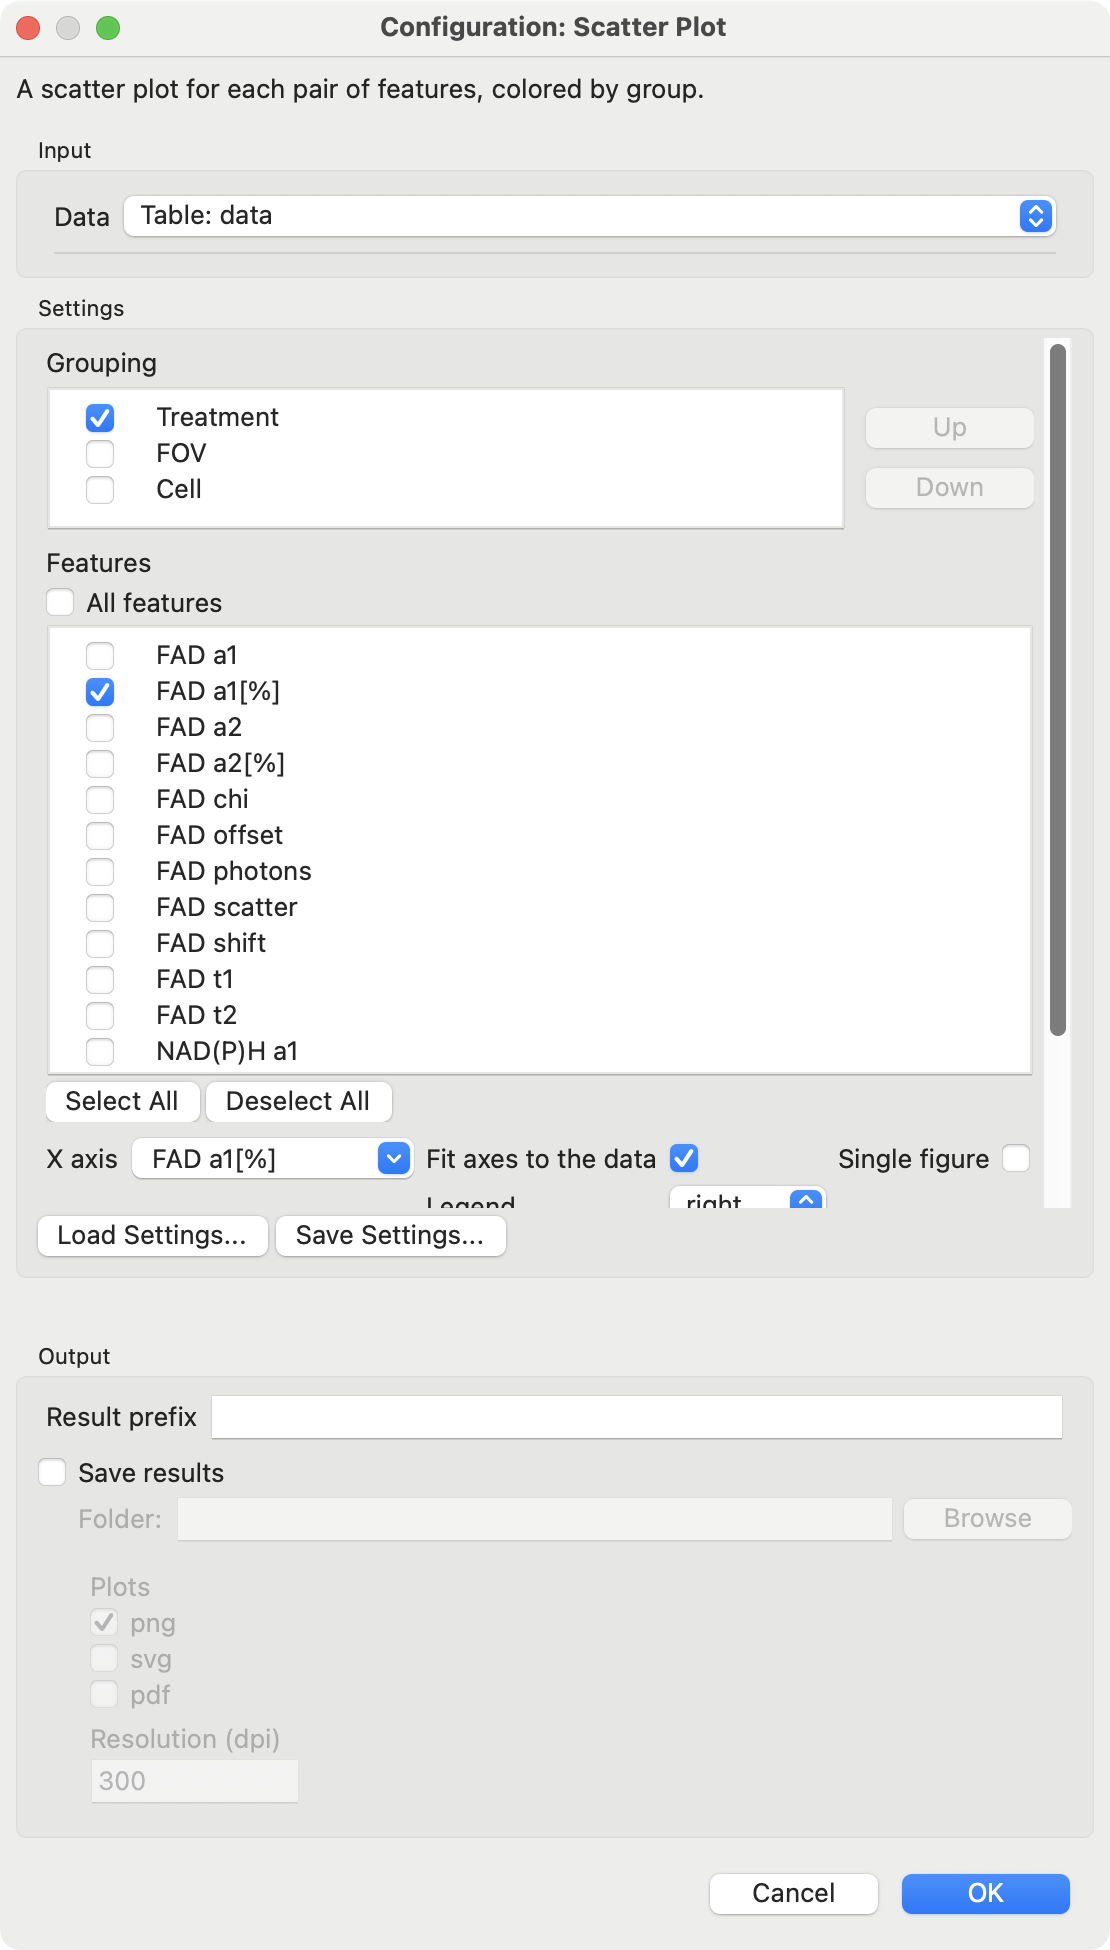
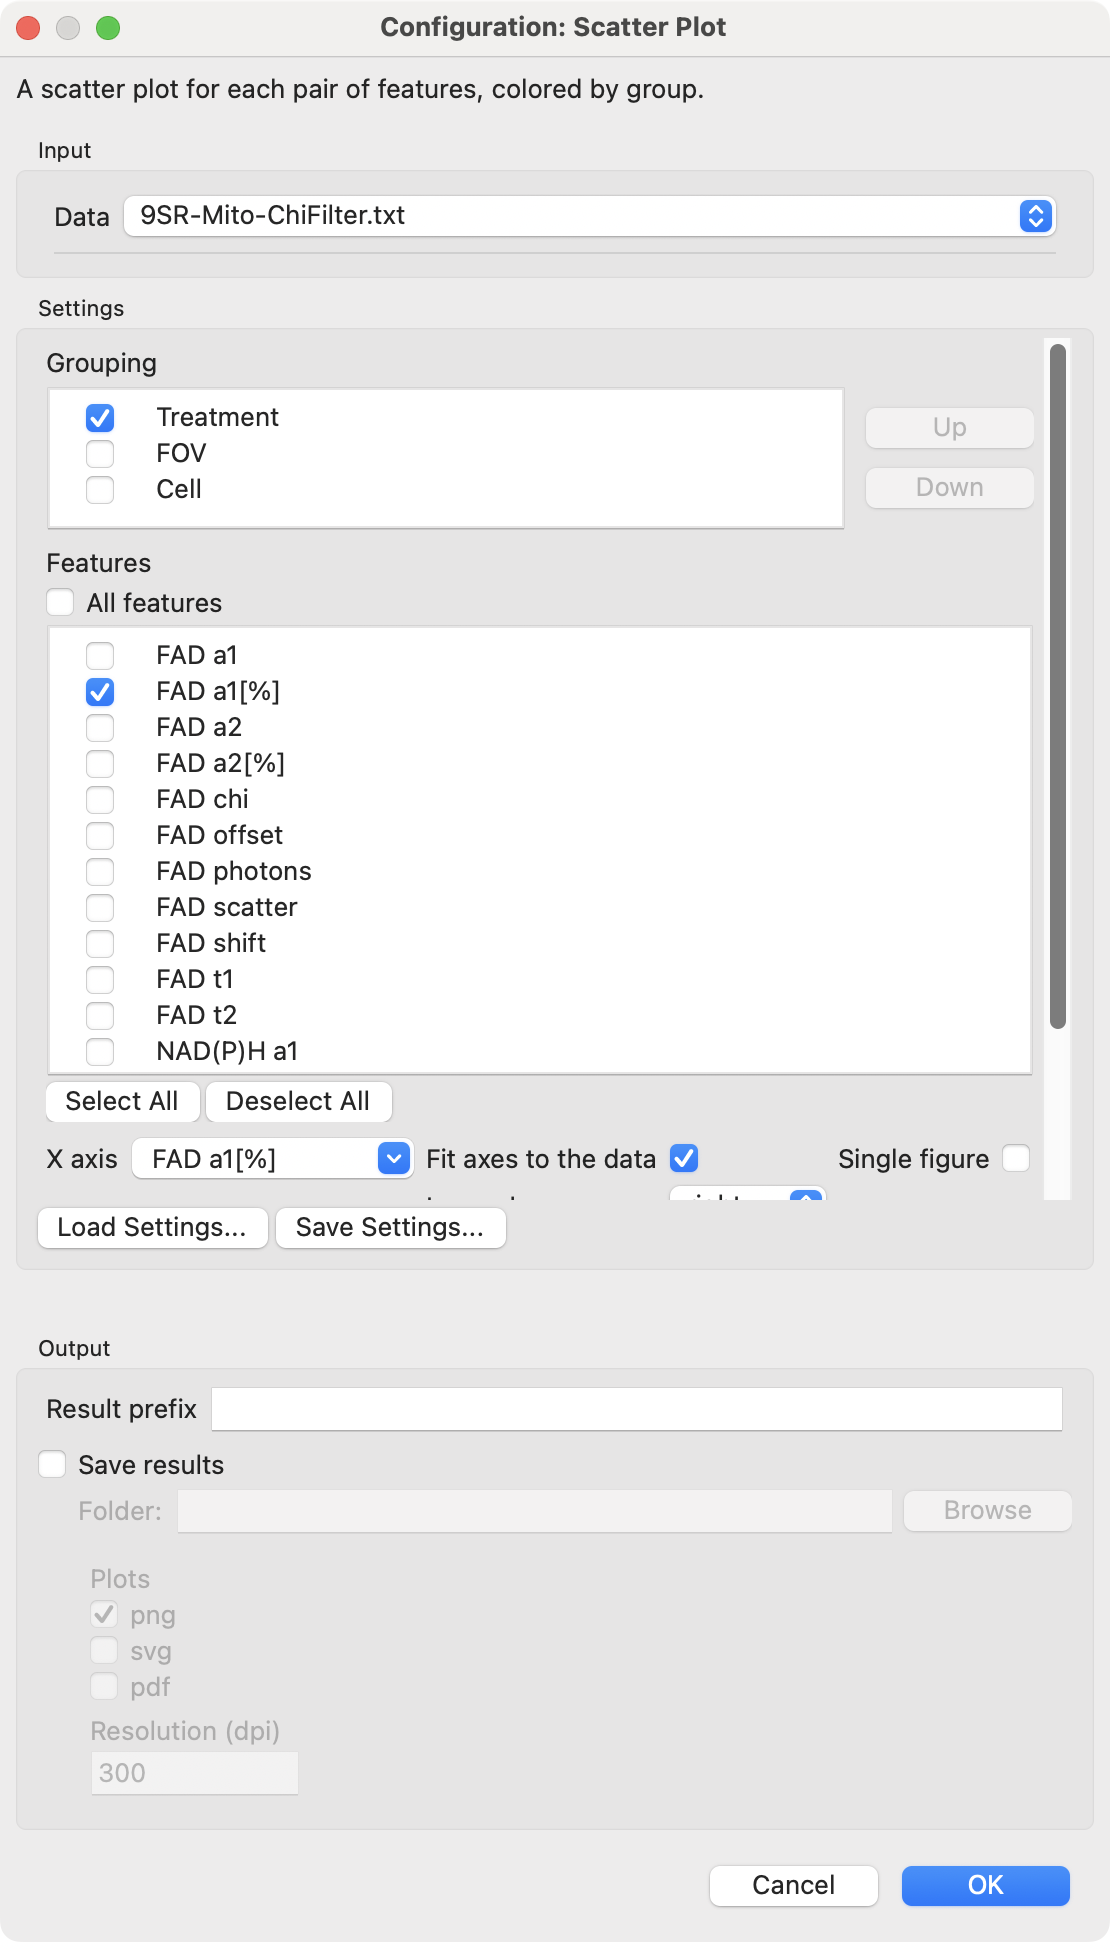
Screenshots retaken after the 0.7.0 review
- Workflow dialogs with Save results locked; dialogs name the data by its file
- Pivot results from the Pivot tool; new image of the Source columns

diff --git a/docs/screenshots.py b/docs/screenshots.py
@@ -37,6 +37,7 @@ from flim.configs import (  # noqa: E402
     HistogramConfig,
     MergeConfig,
     PairPlotConfig,
+    PivotConfig,
     SortConfig,
     SplitConfig,
     SummaryConfig,
@@ -107,17 +108,13 @@ def result_of(tool, config, inputs="data", result=None):
     return make
 
 
-def pivoted(data):
-    """What the data window's Pivot button makes of the Pivot example's choices."""
-    columns = ["FAD a1[%]", "NAD(P)H a2[%]"]
-    table = pd.pivot_table(
-        data[columns + CATEGORIES],
-        index=["FOV", "Cell"],
-        columns=["Treatment"],
-        observed=False,
-    )
-    table.columns = ["\n".join(col).strip() for col in table.columns.values]
-    return table.reset_index()
+def with_source(data):
+    """The data as a read table has it: `Source`, `Directory` and `File` first."""
+    from pathlib import PurePosixPath
+
+    file = PurePosixPath("/data/flim") / DATAFILE  # a neutral path, not the user's
+    columns = {"Source": file.as_uri(), "Directory": str(file.parent), "File": file.name}
+    return pd.concat([pd.DataFrame(columns, index=data.index), data], axis=1)
 
 
 # --- the screenshots: image path -> (kind, arguments) ---
@@ -215,6 +212,8 @@ BOX_SINGLE = BoxPlotConfig(
     plots_per_row=3,
 )
 
+PIVOT = PivotConfig(grouping=["Treatment"], features=["FAD a1[%]", "NAD(P)H a2[%]"])
+pivoted = result_of("Pivot", PIVOT)  # the Pivot example's table, `Table: Pivoted`
 SPLIT = SplitConfig(grouping=["FOV"])
 MERGE = MergeConfig(how="left", on=CATEGORIES)
 FOV_A = fov("a")  # the workflow examples: the same steps, faster
@@ -225,6 +224,7 @@ SHOTS = {
     "toolbar.png": ("main", {}),
     "data/exdata_table.png": ("table", {}),
     "data/dataframe.png": ("table", {}),
+    "data/source-columns.png": ("table", {"table": with_source, "size": (1000, 300)}),
     # Data
     "data/precision.png": ("table", {"crop": (400, 28, 1000, 250)}),  # decimals next to the control
     "data/category-filter.png": ("window", {"make": "category_filter"}),
@@ -243,7 +243,7 @@ SHOTS = {
     "data/merge-res1.png": ("table", {"tool": "Merge", "config": MERGE, "inputs": MERGE_INPUTS}),
     "data/merge-res3.png": ("table", {"tool": "Merge", "config": MERGE, "inputs": MERGE_INPUTS, "scroll_to_end": True}),
     "data/pivot-original.png": ("table", {}),
-    "data/pivot-result.png": ("table", {"table": pivoted, "title": DATAFILE}),
+    "data/pivot-result.png": ("table", {"tool": "Pivot", "config": PIVOT}),
     # Analysis
     "analysis/summary-config-nogrouping.png": ("dialog", {"tool": "Summarize", "config": SUMMARY}),
     "analysis/summary-result1-nogrouping.png": ("table", {"tool": "Summarize", "config": SUMMARY, "size": (1000, 300)}),
@@ -262,8 +262,8 @@ SHOTS = {
     "analysis/rf-output2.png": ("table", {"tool": "Random Forest", "config": FOREST, "size": (700, 400)}),
     "analysis/relchange-config-grouping.png": ("dialog", {"tool": "Relative Change", "config": RELCHANGE}),
     "analysis/relchange-result-grouping.png": ("table", {"tool": "Relative Change", "config": RELCHANGE}),
-    "analysis/relpivot-result.png": ("table", {"table": pivoted}),
-    "analysis/seriesanalysis-config.png": ("dialog", {"tool": "Series Analysis", "config": SERIES, "inputs": {"Table: pivoted": pivoted}}),
+    "analysis/relpivot-result.png": ("table", {"tool": "Pivot", "config": PIVOT}),
+    "analysis/seriesanalysis-config.png": ("dialog", {"tool": "Series Analysis", "config": SERIES, "inputs": {"Table: Pivoted": pivoted}}),
     "analysis/seriesanalysis-results.png": ("table", {"tool": "Series Analysis", "config": SERIES, "inputs": pivoted}),
     "analysis/categorize-config.png": ("dialog", {"tool": "Categorize Data", "config": CATEGORIZE}),
     "analysis/categorize-results.png": ("table", {"tool": "Categorize Data", "config": CATEGORIZE}),
@@ -436,9 +436,22 @@ class Shooter:
         from flim.gui.configdialog import dialog_class
 
         tool = tools.get(tool)
-        choices = self.tables(inputs or {"Table: data": "data"})
+        # the data under its file name, as the table windows show it
+        choices = self.tables(inputs or {DATAFILE: "data"})
+        from flim.core.execution import ExecutionOptions
+        from flim.core.saving import AutosaveConfig
+        from flim.core.workflow import Workflow
+
+        # as the GUI opens it: a workflow's `Save results` is checked and locked, in the
+        # results folder (~/FLIMAnalyzerResults, shown without the user's home)
+        locked = issubclass(tool, Workflow)
+        execution = None
+        if locked:
+            autosave = AutosaveConfig(enabled=True, results_dir="~/FLIMAnalyzerResults")
+            execution = ExecutionOptions(autosave=autosave)
         dialog = dialog_class(tool.config_class)(
-            self.frame, tool, config, data_choices=choices, selected=selected
+            self.frame, tool, config, data_choices=choices, selected=selected,
+            execution=execution, autosave_locked=locked,
         )
         if setup:
             getattr(self, setup)(dialog)

diff --git a/docs/userguide/data/load.md b/docs/userguide/data/load.md
@@ -54,4 +54,4 @@ After [opening](#open-tables) or [importing](#import-tables) files, the data are
 
 When a file is read, its own `Source`, `Directory` or `File` column is kept: a table saved by FLIMAnalyzer keeps the `Source` of the files it was made from, and no other `Source` is added. A `Source` column whose values are not URIs (for example a column the measurement software wrote) is renamed `Source (before Read)` instead, and FLIMAnalyzer's own `Source` is added; the message after reading lists the renamed columns. The read setting `File's own Source, Directory, File` set to `rename` renames all three columns.
 
-![](/images/data/dataframe.png)
+![](/images/data/source-columns.png)
